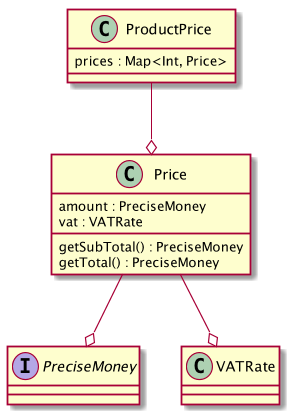
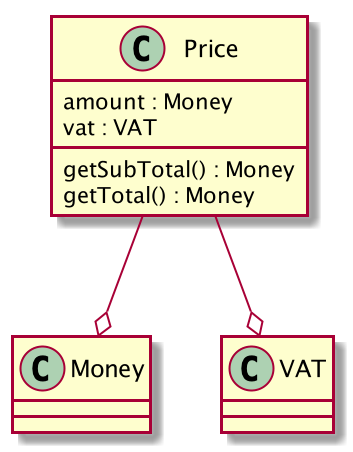
images

diff --git a/manuscript/mathias-verraes/essay-wip.md b/manuscript/mathias-verraes/essay-wip.md
@@ -5,7 +5,6 @@ Which Bounded Context owns a particular concept? One way to find out is by evolv
 ## The problem
 
 @TODO we vs us
-@TODO make this less dense?
 
 Imagine you're working on a business application, that deals with sales, accounting, reporting, that sort of thing. The existing software has some serious issues. For example, monetary values are represented as scalars. In many places, values are calculated at a high precision, and then rounded down to 2 decimals, and later used again for high precision calculations. These rounding errors are all over the code. It doesn't make a huge difference on a single amount and a single rounding error, but eventually it could add up, and cost the business millions of euros. The monetary values can represent different currencies, but the financial reporting is always in Euro. It is unclear if the code always correctly converts to Euro when needed, or accidentally adds up amounts from different currencies.
 
@@ -28,27 +27,13 @@ Are there existing design patterns that can help here? A good pattern to apply w
 In fact, a couple of years before Eric Evans published his book, Martin Fowler described an implementation for `Money` in [Patterns of Enterprise Application Architecture](http://amzn.to/1TN7Tq4). 
 The pattern describes an object consisting of two properties, a number for the amount, and another property for the associated currency (which could be a Value Object as well). The `Money` Value Object is immutable, so all operations will return a new instance.
 
+![Money](images/mathias-verraes/Money.png)
 
+The `Currency` type supports the 10 different currencies that the business is interested in. You can use enums, but a simple assertion will do if your language doesn't have enums. The following constraints can be added:
 
-![Money](../images/mathias-verraes/Money.png)
-
-Value Objects are the ultimate composable objects. That helps to make implicit concepts more explicit. For example, you can naively use the money type to represent prices. But what if a price is not so simple? In Europe, prices have a Value Added Tax component. You can now naturally compose a new `Price` Value Object from a `Money` and a `VAT` object. The `VAT` object could be a wrapper around a `Percentage` object, but at this point that probably doesn't add much value to the model.
-
-Value Objects make it easy to build abstractions that can handle lots of complexity, at a low cognitive cost to the developer using it. Finding the abstractions can be hard, but spending the effort here usually impacts code quality and maintainability so much in the long run, that it's very often worth it.
-
-![Money](../images/mathias-verraes/Price.png)
-
-TODO rename PreciseMoney to Money in the diagram (is this fixed?)
-
-TODO change the diagrams to show Number instead of float
-
-Using the Value Object pattern, you can define a type for the `Money` object and an enum for the `Currency`.
-The `Currency` enum can support the 10 different currencies that the business is interested in. A simple assertion will do if your language doesn't have enums. The following constraints can be added:
-
-- The type can't be initialised  with a value different from any of the supported 10 currencies. 
+- The type can't be initialised with a value different from any of the supported 10 currencies. 
 - It only uses the 3-letter ISO symbols, anything else is an error. That satisfies requirement 1.
 
-![Money](../images/mathias-verraes/MoneyFormatter.png)
 
 `Money`’s constructor rounds the numbers to 8 decimals. This gives it enough precision to deal with any currency. Operations like `Money.add(Money other) : Money` and `Money.multiply(Number operand) : Money` etc can be added to the `Money` class. The operations automatically round to 8 decimals. In addition, there's also a `Money.round() : Money` method that returns a new Money object, rounded to 2 decimals. 
 
@@ -62,6 +47,22 @@ The `Currency` enum can support the 10 different currencies that the business is
 
 
 Now that you have modeled the types based on the requirements, the next step is to refactor all the places in the old code that do things with money to use the new `Money` object.
+
+## Composition
+
+An interesting aspect of Value Objects, is that they are the ultimate composable objects. That helps to make implicit concepts more explicit. For example, you could naively use the money type to represent prices. But what if a price is not so simple? In Europe, prices have a Value Added Tax component. You can now naturally compose a new `Price` Value Object from a `Money` and a `VAT` object, the latter representing a percentage.
+
+![Price](images/mathias-verraes/Price.png)
+
+A Product could have different prices in different markets, and we can make this concept explicit in a another Value Object.
+
+![ProductPrice](images/mathias-verraes/ProductPrice.png)
+
+... and so on. We can push a lot of logic that we'd traditionally put in services, down into these Value Objects. 
+
+Value Objects make it easy to build abstractions that can handle lots of complexity, at a low cognitive cost to the developer using it. Finding the abstractions can be hard, but spending the effort here usually impacts code quality and maintainability so much in the long run, that it's very often worth it.
+
+
    
 ## Look for weaknesses
  
@@ -99,7 +100,11 @@ The `Money.round()` method now becomes very simple:
          }
     }
 
+![PreciseMoney](images/mathias-verraes/PreciseMoney.png)
+
+
 The chief benefit is strong guarantees. We can now typehint against `PreciseMoney` in most of our domain model, and typehint against `RoundedMoney` where we explicitly want or need it. 
+
 
 It's easy to underestimate how valuable this style of granular types can be.
 
@@ -121,7 +126,7 @@ You may have noticed that in the current design, there is no `Money` interface a
 
 If the goal is to try and build a model inspired by the real-world, this would make sense. However, don't judge your models by how well they fit into hierarchical categorisations. A Domain Model is not an taxonomy — in contrast to the OOP books that teach you that a `Cat extends Animal`. Judge your models based on usefulness instead. A top-level `Money` interface adds no value at all; in fact it takes away value. 
 
-![Money](../images/mathias-verraes/BadMoney.png)
+![BadMoney](images/mathias-verraes/BadMoney.png)
 
 
 This may be a bit counterintuitive. `PreciseMoney` and `RoundedMoney`, although somewhat related, are fundamentally different types. The model is designed for clarity, for the guarantee that rounded and precise values are not mixed up. By allowing client code the typehint for the generic `Money`, you've taken away that clarity. There’s now no way of knowing which `Money` you're getting. All responsibility for passing the correct type is now back in the hands of the caller. The caller could do `money instanceof PreciseMoney`, but that's a serious code smell.
